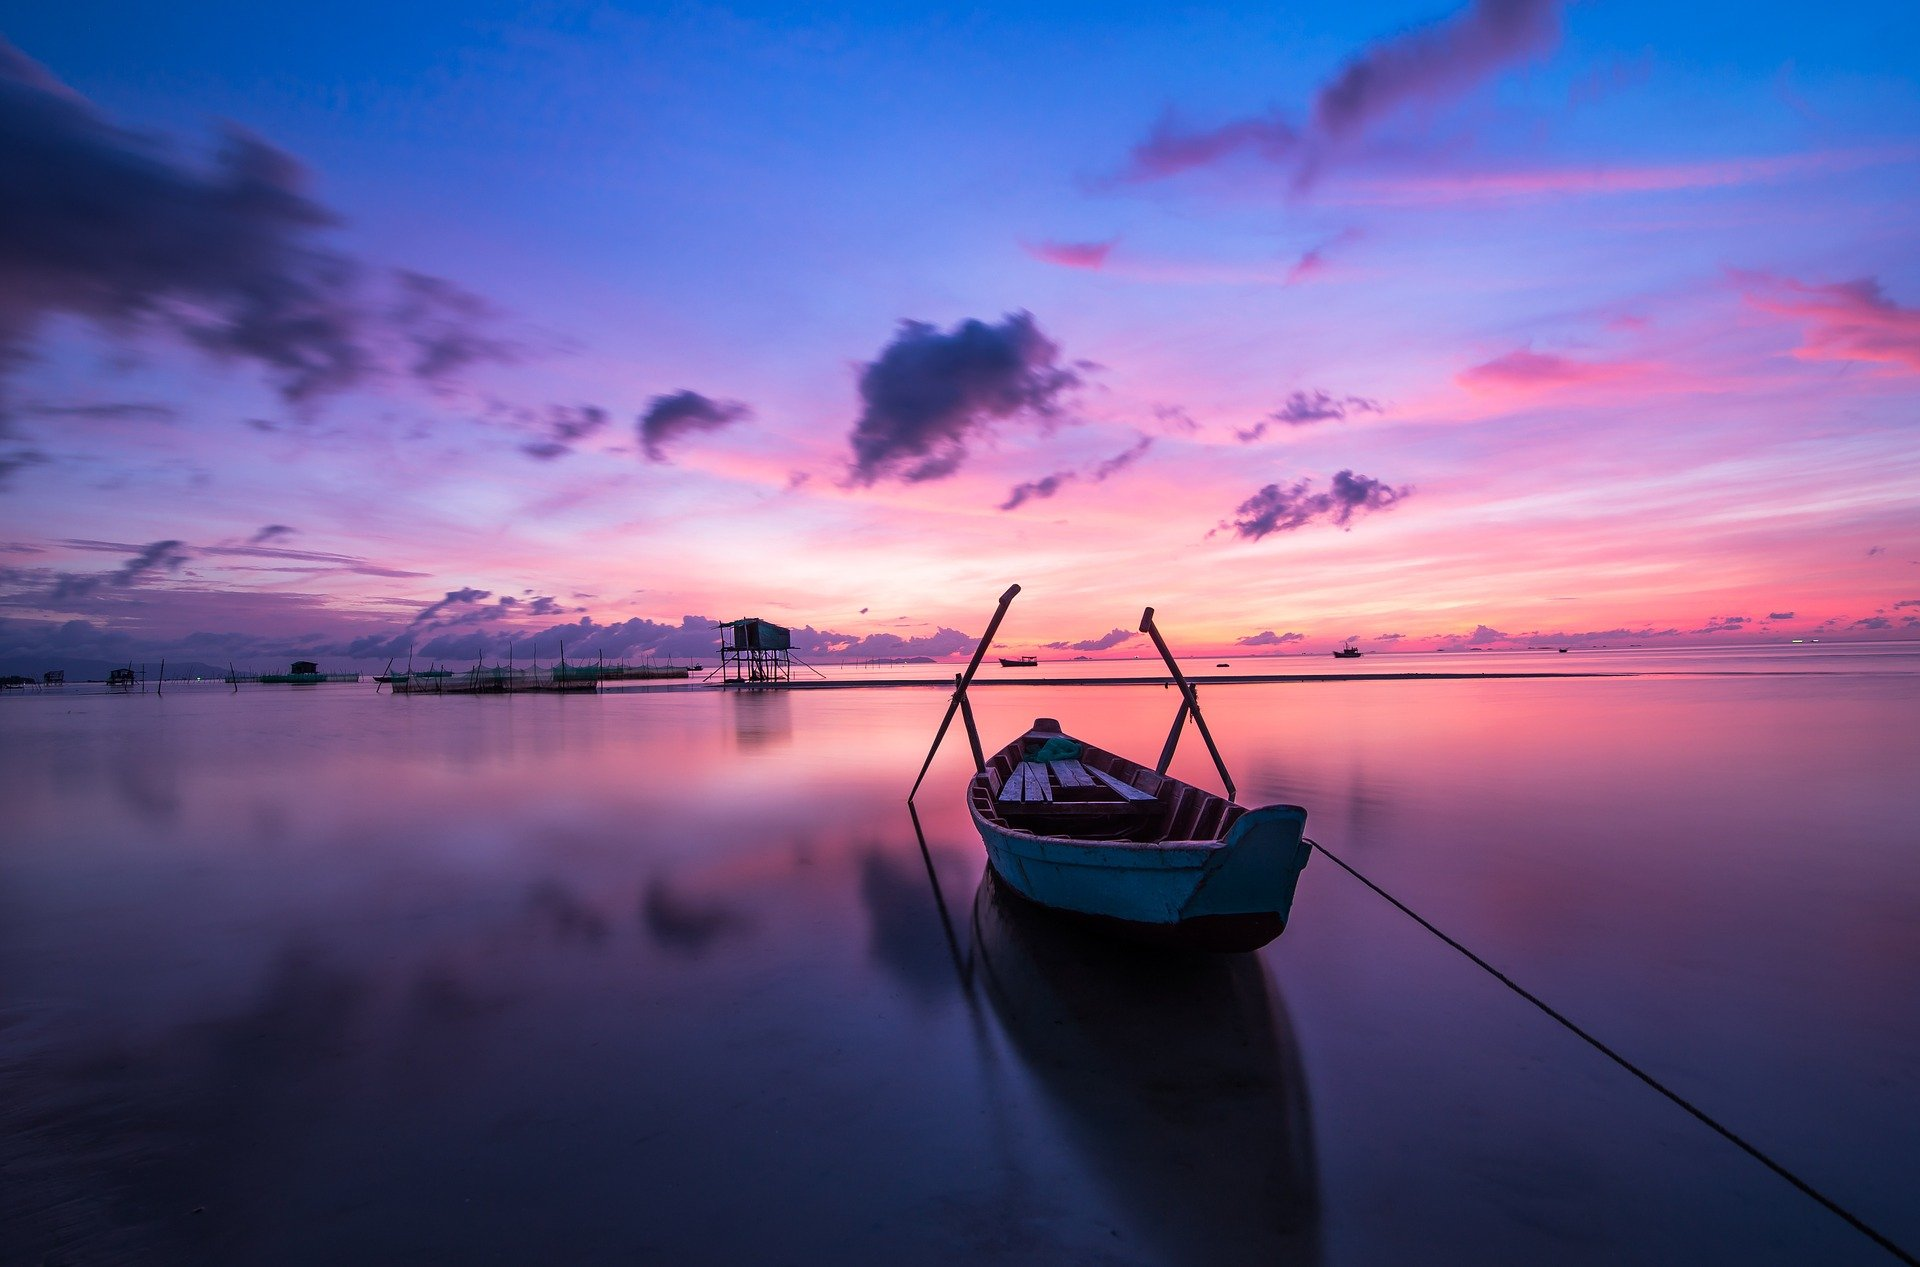
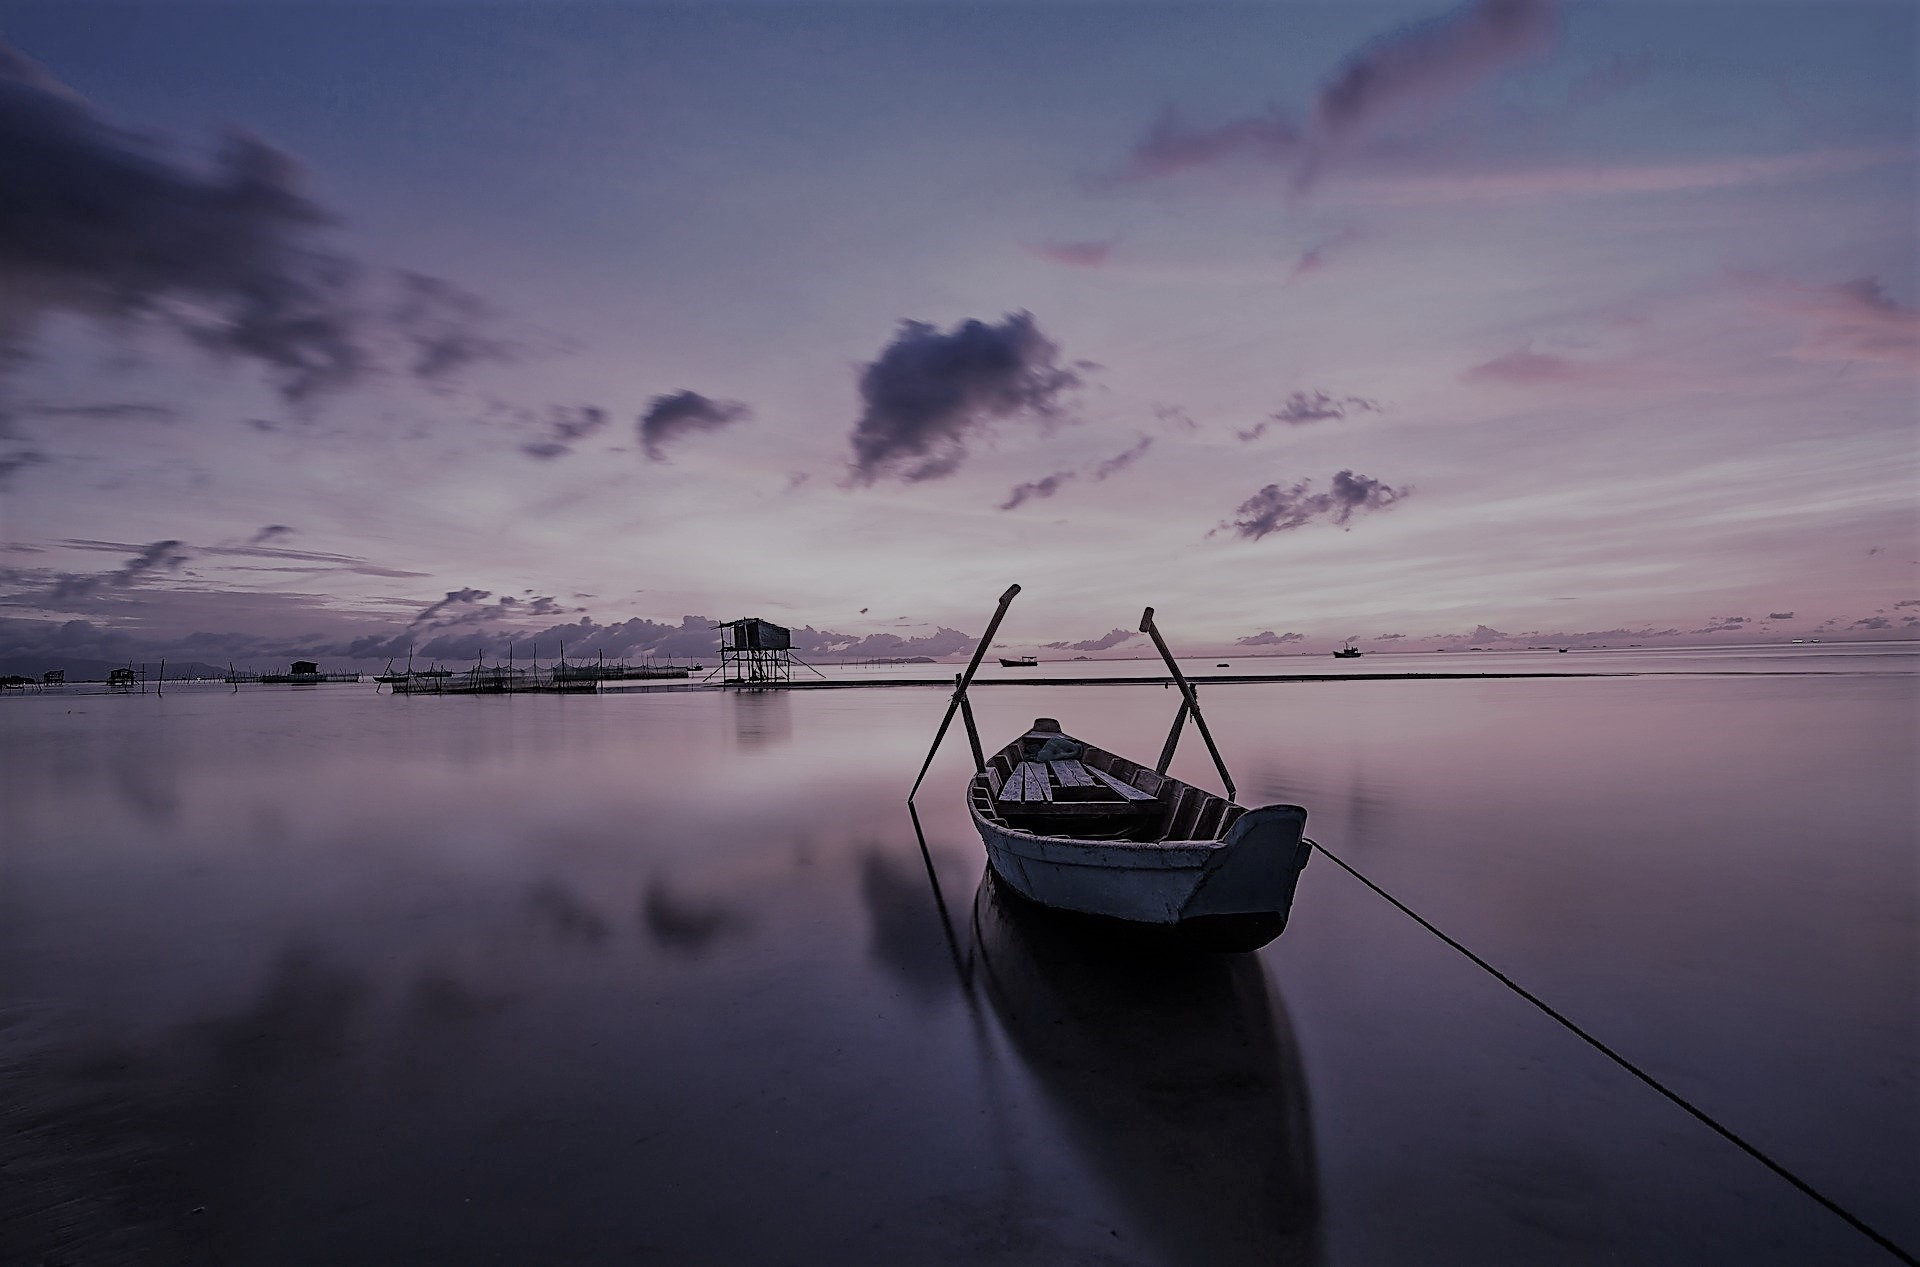
sobre mi casi

diff --git a/web/index.html b/web/index.html
@@ -4,16 +4,14 @@
     <meta charset="UTF-8">
     <meta name="viewport" content="width=device-width, initial-scale=1">
     <title>Víctor Valero</title>
-    <link href="https://cdn.jsdelivr.net/npm/bootstrap@5.0.0-beta1/dist/css/bootstrap.min.css" rel="stylesheet" integrity="sha384-giJF6kkoqNQ00vy+HMDP7azOuL0xtbfIcaT9wjKHr8RbDVddVHyTfAAsrekwKmP1" crossorigin="anonymous">
+    <!-- <link href="https://cdn.jsdelivr.net/npm/bootstrap@5.0.0-beta1/dist/css/bootstrap.min.css" rel="stylesheet" integrity="sha384-giJF6kkoqNQ00vy+HMDP7azOuL0xtbfIcaT9wjKHr8RbDVddVHyTfAAsrekwKmP1" crossorigin="anonymous"> -->
+    <link rel="stylesheet" href="https://maxcdn.bootstrapcdn.com/bootstrap/4.0.0/css/bootstrap.min.css" integrity="sha384-Gn5384xqQ1aoWXA+058RXPxPg6fy4IWvTNh0E263XmFcJlSAwiGgFAW/dAiS6JXm" crossorigin="anonymous">
     <link rel="stylesheet" href="css/style.css">
 </head>
 
 <div class="container-fluid">
     <nav class="navbar navbar-expand-lg navbar-dark bg-dark">
         <a class="navbar-brand nombre" href="#">Víctor Valero</a>
-        <button class="navbar-toggler" type="button" aria-label="Toggle navigation">
-                    <span class="navbar-toggler-icon"></span>
-                    </button>
         <div class="collapse navbar-collapse justify-content-end menu" id="navbarNav">
             <ul class="navbar-nav ">
                 <li class="nav-item">
@@ -27,11 +25,24 @@
                 </li>
             </ul>
         </div>
+        <div class="pos-f-t">
+            <div class="collapse" id="navbarToggleExternalContent">
+                <div class="bg-dark p-4">
+                    <h4 class="text-white">Collapsed content</h4>
+                    <span class="text-muted">Toggleable via the navbar brand.</span>
+                </div>
+            </div>
+            <nav class="navbar navbar-dark bg-dark">
+                <button class="navbar-toggler" type="button" data-toggle="collapse" data-target="#navbarNav" aria-controls="navbarToggleExternalContent" aria-expanded="false" aria-label="Toggle navigation">
+                <span class="navbar-toggler-icon"></span>
+              </button>
+            </nav>
+        </div>
     </nav>
 </div>
 
 <div class="container-fluid">
-    <div class="portada_img  col-12">
+    <div class="portada_img col-12">
         <img class="mx-auto d-block logo" src="img/w.png">
 
         <div class="container text-center flecha">
@@ -42,21 +53,40 @@
 </div>
 
 <div class="container-fluid">
-    <div class="mi col-12">
+    <div class="mi">
         <div class="col-12 text-center">
             <br>
-            <h1>SOBRE MI</h1>
+            <h1 style="color: white;"><span class="naranja">SOBRE</span> MI</h1><br><br>
         </div>
         <div class="container">
             <div class="row justify-content-center">
-                <div class="col-6 text-center" style="background-color: white;">
-                    <img src="img/w.png" alt="">
-                </div>
                 <div class="col-6 text-center">
-                    One of two columns
+                    <img class="img-fluid" src="img/fototoguapa.PNG" alt="">
+                </div>
+                <div style="color: white;" class="col-6">
+                    <h3 class="text-center">Víctor <span class="naranja">Valero </span>Quirós</h3><br>
+                    <div class="row">
+                        <div class="col-12">
+                            <p>
+                                Actualment soc estudiant d'un Grau Superior de <b class="naranja">Desenvolupament d'Aplicacions Web (DAW)</b> . Haven't-hi format en un Grau mitja de <b class="naranja">Sistemes Microinformàtics i Xarxes (SMIX)</b>, amb
+                                el que he pogut tenir l'oportunitat de participar en la <b class="naranja">HP CodeWars 2019</b> i treballar en llocs com <b class="naranja">Club Natació Sabadell</b> o la <b class="naranja">Generalitat de Catalunya</b>,
+                                com ha técnic de suport informàtic presencial.
+                            </p>
+                        </div>
+                        <p></p>
+                        <p></p>
+
+                        <div class="col-md-12 col-sm-6">
+                            <p>
+                                Poseeixo una gran varietat de titulacions oficials; <span class="naranja"> MOS WORD,</span> MOS EXCEL,<span class="naranja"> LPI LINUX,</span> Database Programming with PL/SQL,<span class="naranja"> Database Design and Programming with SQL, </span>Microsoft
+                                Imagine Academy: Administracion Windows 2016 Server.
+                            </p>
+                        </div>
+
+                    </div>
                 </div>
             </div>
-            br
+            <br>
             <div class="row justify-content-center">
 
                 <div class="col-6 text-center">
@@ -73,5 +103,38 @@
     </div>
 
 </div>
+
+<div class="container">
+    <div id="carouselExampleIndicators" class="carousel slide" data-ride="carousel">
+        <ol class="carousel-indicators">
+            <li data-target="#carouselExampleIndicators" data-slide-to="0" class="active"></li>
+            <li data-target="#carouselExampleIndicators" data-slide-to="1"></li>
+            <li data-target="#carouselExampleIndicators" data-slide-to="2"></li>
+        </ol>
+        <div class="carousel-inner">
+            <div class="carousel-item active">
+                <img class="d-block w-100" src="img/barca.jpg" alt="First slide">
+            </div>
+            <div class="carousel-item">
+                <img class="d-block w-100" src="img/fototoguapa.PNG" alt="Second slide">
+            </div>
+            <div class="carousel-item">
+                <img class="d-block w-100" src="img/sol.jpg" alt="Third slide">
+            </div>
+        </div>
+        <a class="carousel-control-prev" href="#carouselExampleIndicators" role="button" data-slide="prev">
+            <span class="carousel-control-prev-icon" aria-hidden="true"></span>
+            <span class="sr-only">Previous</span>
+        </a>
+        <a class="carousel-control-next" href="#carouselExampleIndicators" role="button" data-slide="next">
+            <span class="carousel-control-next-icon" aria-hidden="true"></span>
+            <span class="sr-only">Next</span>
+        </a>
+    </div>
+</div>
+
+<script src="https://code.jquery.com/jquery-3.2.1.slim.min.js" integrity="sha384-KJ3o2DKtIkvYIK3UENzmM7KCkRr/rE9/Qpg6aAZGJwFDMVNA/GpGFF93hXpG5KkN" crossorigin="anonymous"></script>
+<script src="https://cdnjs.cloudflare.com/ajax/libs/popper.js/1.12.9/umd/popper.min.js" integrity="sha384-ApNbgh9B+Y1QKtv3Rn7W3mgPxhU9K/ScQsAP7hUibX39j7fakFPskvXusvfa0b4Q" crossorigin="anonymous"></script>
+<script src="https://maxcdn.bootstrapcdn.com/bootstrap/4.0.0/js/bootstrap.min.js" integrity="sha384-JZR6Spejh4U02d8jOt6vLEHfe/JQGiRRSQQxSfFWpi1MquVdAyjUar5+76PVCmYl" crossorigin="anonymous"></script>
 
 </html>

diff --git a/web/css/style.css b/web/css/style.css
@@ -19,7 +19,7 @@
 }
 
 .mi {
-    background-image: url(../img/barca.jpg);
+    background-image: url(../img/barca2.jpg);
     background-size: cover;
     background-position: center;
     background-repeat: no-repeat;
@@ -51,4 +51,8 @@
     margin-bottom: 0;
     background-color: white;
     width: 5%;
+}
+
+.naranja {
+    color: #f5a056;
 }
